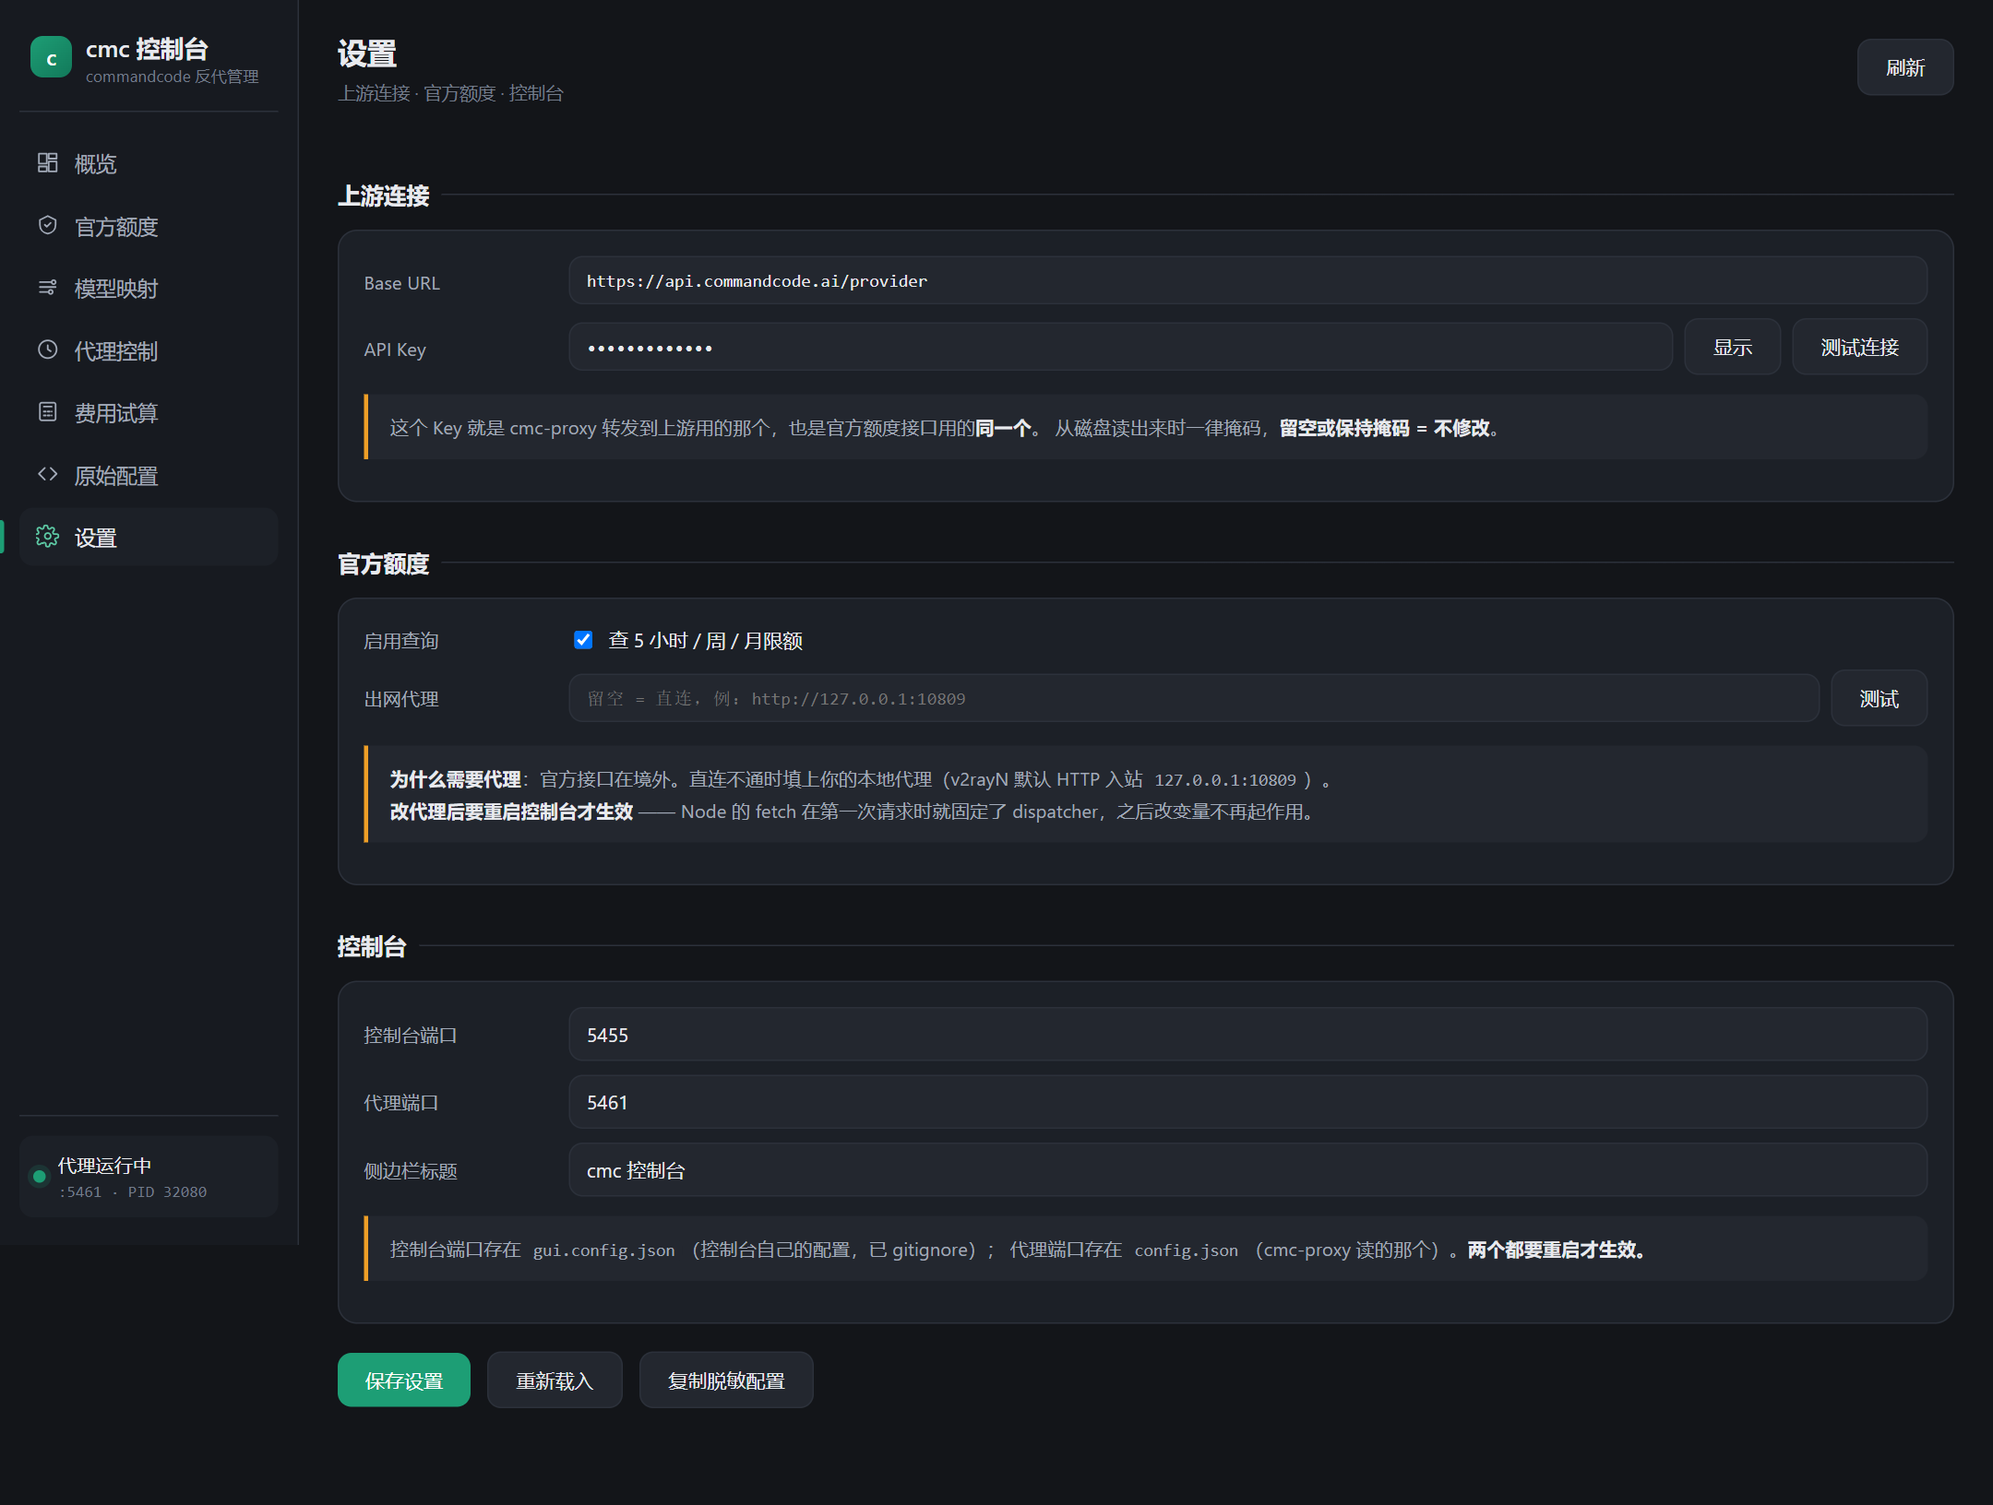
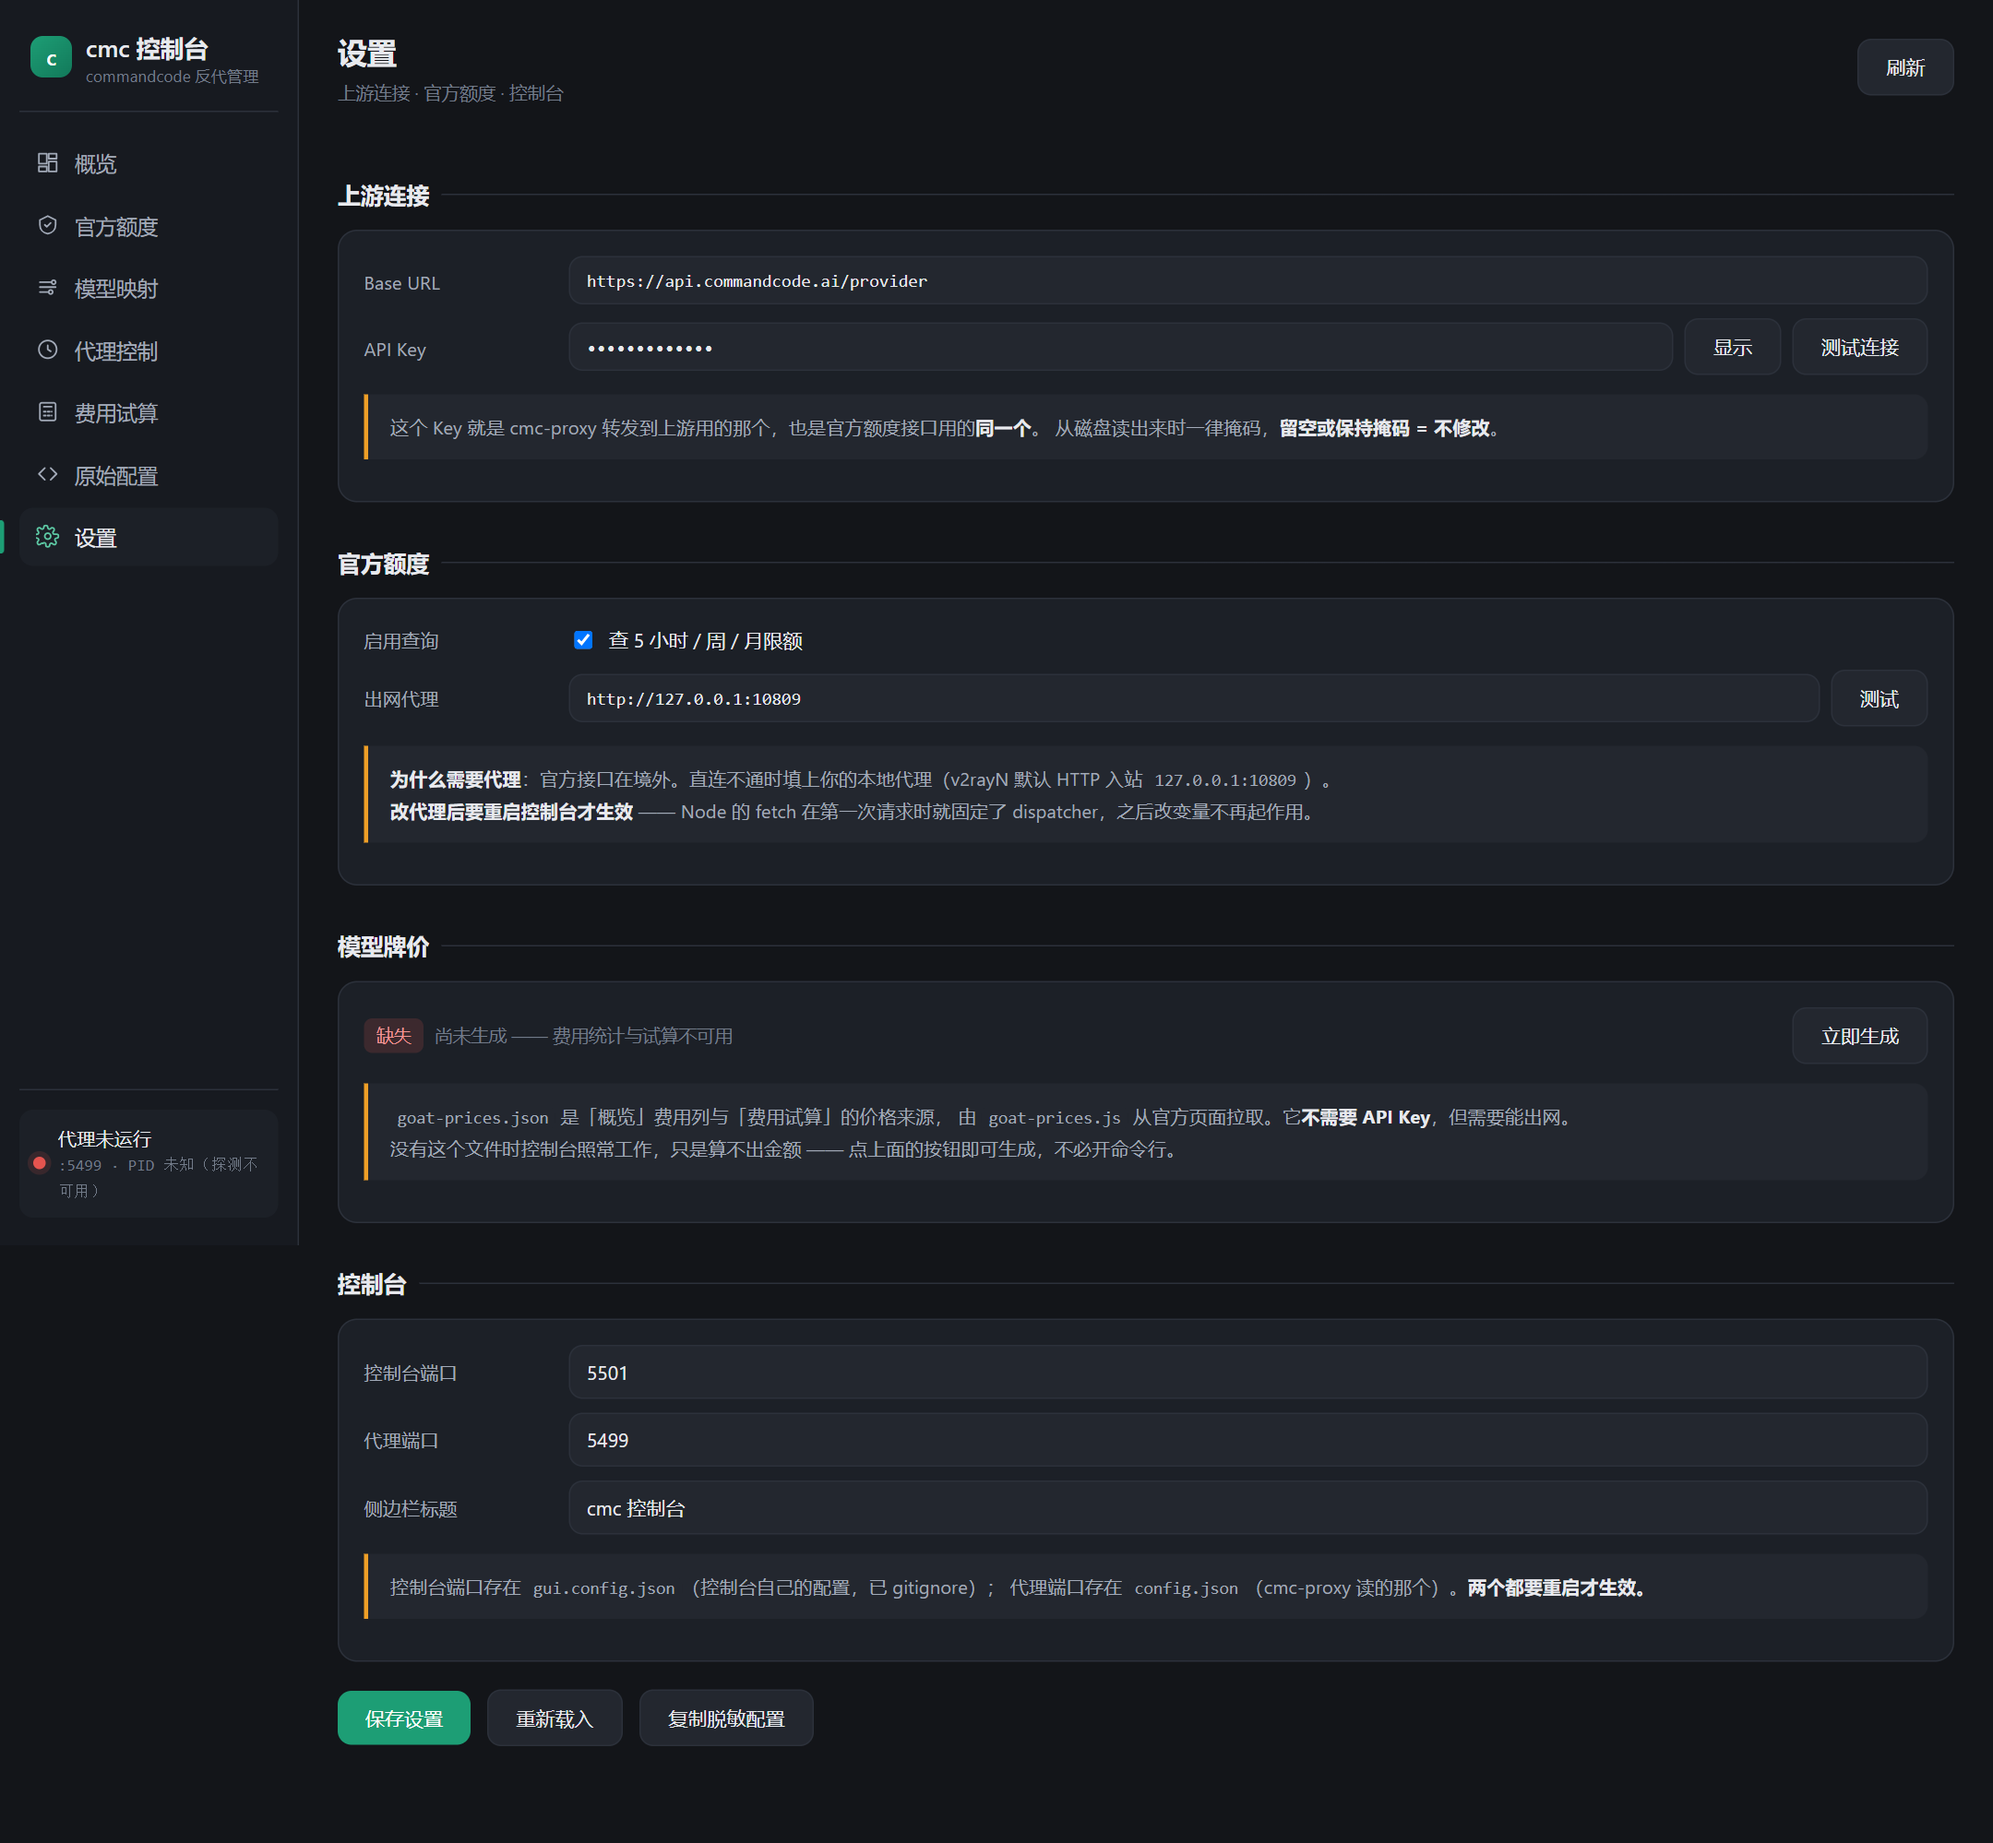
feat: 控制台内一键生成模型牌价 + 快速开始改为一站式步骤
新增：
- POST /api/prices/refresh —— 由控制台代跑 goat-prices.js，不必开命令行
- 「设置」页新增「模型牌价」分组，显示就绪状态 + 「立即生成」按钮
- 「费用试算」页在缺牌价时的提示里也放了同一个按钮，生成后本页自动刷新

代理处理（一个容易搞反的点）：
牌价来源 commandcode.ai 通常可直连，而上游 API 才必须走代理。
所以先剥掉代理变量直连跑一次，失败且配了代理时再用代理重试 ——
反过来（一上来就塞代理）会在代理没开时，把一个本来能成的操作弄失败。

另有：config.json 不存在时自动从 config.example.json 生成一份，
用户可以「先启动控制台、再在设置页填 Key」，不必手工复制文件。

README：快速开始改为「启动 → 在控制台里完成配置 → 接入客户端」三步，
把原先独立的「配置」章节并入教程，其后仅保留文件层面的说明。

diff --git a/gui.html b/gui.html
@@ -469,6 +469,20 @@
           <div id="testOffMsg" style="margin-top:10px"></div>
         </div>
 
+        <h2>模型牌价 <span class="rule"></span></h2>
+        <div class="card">
+          <div class="row" style="justify-content:space-between;align-items:center">
+            <span id="priceState" class="muted">—</span>
+            <button class="g" onclick="genPrices()" id="btnPrices">立即生成</button>
+          </div>
+          <div class="note" style="margin-top:14px">
+            <code>goat-prices.json</code> 是「概览」费用列与「费用试算」的价格来源，
+            由 <code>goat-prices.js</code> 从官方页面拉取。它<b>不需要 API Key</b>，但需要能出网。
+            <br />没有这个文件时控制台照常工作，只是算不出金额 —— 点上面的按钮即可生成，不必开命令行。
+          </div>
+          <div id="priceMsg" style="margin-top:10px"></div>
+        </div>
+
         <h2>控制台 <span class="rule"></span></h2>
         <div class="card">
           <div class="kv">
@@ -583,6 +597,14 @@ async function loadStatus() {
   $("btnStart").disabled = on || STATUS.managedByGui;
   $("btnStop").disabled = !STATUS.managedByGui;
   $("btnForce").disabled = !on;
+
+  // 设置页里的牌价状态（元素可能还没渲染，判空）
+  const ps = $("priceState");
+  if (ps) {
+    ps.innerHTML = STATUS.pricesLoaded
+      ? `<span class="pill ok">已就绪</span><span class="muted" style="margin-left:8px">goat-prices.json</span>`
+      : `<span class="pill err">缺失</span><span class="muted" style="margin-left:8px">尚未生成 —— 费用统计与试算不可用</span>`;
+  }
 
   // 独立仓库场景：目录里没有 proxy.js 时，明确告诉用户缺什么
   if (STATUS.proxyJsPresent === false) {
@@ -962,9 +984,14 @@ function renderCalcModels() {
 
   $("calcWarn").innerHTML = `<div class="note err" style="margin-bottom:16px">
     <b>找不到 goat-prices.json，费用试算拿不到价格。</b>
-    在控制台所在目录执行一次 <code>node goat-prices.js</code> 生成它（若需代理，见 README），
-    然后<b>刷新本页</b>即可 —— 不必重启控制台。
-    <br />下面的模型列表暂时取自上游目录，可以选，但估不出金额。</div>`;
+    它由 <code>goat-prices.js</code> 从官方页面拉取（不需要 API Key，但需要能出网）。
+    <br />下面的模型列表暂时取自上游目录，可以选，但估不出金额。
+    <div class="row" style="margin-top:12px">
+      <button class="g" onclick="genPrices('calcMsg')">立即生成牌价</button>
+      <span class="muted" style="font-size:12.5px">或在「设置」页操作；生成后本页会自动刷新</span>
+    </div>
+    <div id="calcMsg" style="margin-top:10px"></div>
+  </div>`;
 }
 
 /** 重新拉一次模型目录再渲染 —— 用户可能是刚生成 goat-prices.json 才切过来 */
@@ -1108,6 +1135,21 @@ async function exportSanitized() {
     $("rawHint").textContent = "";
     window.prompt("复制下面这份（apiKey 已清空）：", txt);
   }
+}
+
+/** 让控制台代跑 goat-prices.js 生成牌价（省得用户开命令行） */
+async function genPrices(msgId) {
+  msgId = msgId || "priceMsg";
+  const btn = $("btnPrices");
+  if (btn) btn.disabled = true;
+  $(msgId).innerHTML = `<span class="muted">正在拉取官方牌价…（约 10–30 秒，请勿关闭窗口）</span>`;
+  const r = await api("/api/prices/refresh", { method: "POST" });
+  if (btn) btn.disabled = false;
+  if (r.error) { testMsg(msgId, r); return; }
+  if (!r.ok) { testMsg(msgId, r); return; }
+  $(msgId).innerHTML = `<span class="pill ok">成功</span><span class="muted" style="margin-left:8px">${esc(r.message)}</span>`;
+  await refreshCalcModels();   // 让「费用试算」的下拉立刻带上价格
+  await loadStatus();          // 刷新设置页里的牌价状态
 }
 
 /* ---------- 原始配置 ---------- */

diff --git a/README.md b/README.md
@@ -66,43 +66,46 @@ Command Code 的 Provider API 按模型族划分三套端点：
 ### 环境要求
 
 - Node.js ≥ 18（依赖内置 `fetch` 与 `ReadableStream`）
-- Windows 可直接使用启动脚本；macOS / Linux 可使用命令行方式启动
+- Windows 可直接使用启动脚本；macOS / Linux 可使用命令行方式启动，界面本身跨平台
 
-### 步骤
-
-**1. 创建配置文件**
-
-复制 `config.example.json` 为 `config.json`，填写 `apiKey`：
-
-```json
-{
-  "upstream": "https://api.commandcode.ai/provider",
-  "apiKey": "user_你的密钥"
-}
-```
-
-密钥可在 Command Code 账户页面获取，形如 `user_` 开头。
-
-**2. 生成模型牌价**
-
-```bash
-node goat-prices.js
-```
-
-该步骤生成 `goat-prices.json`，费用统计与费用试算依赖此文件。未执行时控制台仍可正常运行，但费用相关字段为空。
-
-> 若本机需经由代理访问外网，执行前设置 `HTTP_PROXY` 与 `HTTPS_PROXY`，并加上 `NODE_USE_ENV_PROXY=1`（Node 的 `fetch` 默认不读取前两个变量）。控制台自身会处理这一点，此处是因为脚本在控制台之外单独执行。
-
-**3. 启动**
+### 第一步：启动
 
 ```
 Windows         双击 start-gui.bat
 macOS / Linux   node gui.js --auto-start --open
 ```
 
-启动后自动打开浏览器并访问 `http://127.0.0.1:5419`。控制台与代理运行在同一进程组内，关闭该窗口即同时停止两者。
+浏览器会自动打开 `http://127.0.0.1:5419`。控制台与代理运行在同一进程组内，关闭该窗口即同时停止两者。
+
+首次启动时若目录里没有 `config.json`，控制台会从 `config.example.json` 自动生成一份（`apiKey` 为空），
+**不需要手工复制文件**。
 
 > 仅需反代、不需要控制台时：Windows 使用 `start.bat`，macOS / Linux 使用 `./start.sh`。
+
+### 第二步：在控制台里完成配置
+
+打开左侧「**设置**」页，三项配置都在同一页面完成，无需编辑任何文件：
+
+| 顺序 | 位置 | 操作 | 如何确认成功 |
+|---|---|---|---|
+| ① | 上游连接 → **API Key** | 填入 Command Code 的密钥（`user_` 开头） | 点「测试连接」→ 显示 *Key 有效 · 上游返回 N 个模型* |
+| ② | 官方额度 → **出网代理** | 直连不通时填本地代理，v2rayN 默认为 `http://127.0.0.1:10809` | 点「测试」→ 显示 *官方接口通 · 账号 xxx* |
+| ③ | 模型牌价 → **立即生成** | 点一下按钮，无需命令行 | 状态由「缺失」变为「已就绪」 |
+
+![设置页](docs/console-settings.png)
+
+- **① 为必需项**；② 与 ③ 可选 —— ② 只影响「官方额度」页，③ 只影响费用统计与「费用试算」
+- ③ 拉取的是公开价格页面，**不需要 API Key**，也不需要 `goat-prices.json` 事先存在
+- 修改端口或出网代理后需重启控制台。原因是 Node 在进程启动时即确定是否启用环境变量代理，
+  启动后再设置无效（控制台会自动携带新代理重启一次自身）
+
+> 更习惯命令行的话，也可以直接编辑 `config.json` 填入 `apiKey`、并在目录下执行 `node goat-prices.js`，
+> 效果与上表完全一致。文件层面的说明见下方「配置文件」。
+
+### 第三步：接入客户端
+
+Claude Desktop 的配置见「[接入 Claude Desktop](#接入-claude-desktop)」一节；
+Claude Code 与 Codex 使用同一个网关地址 `http://127.0.0.1:5411`，配置方式参见上游项目文档。
 
 ---
 
@@ -127,40 +130,39 @@ cmc-proxy-gui/
 
 ---
 
-## 配置
+## 配置文件
 
-日常配置无需编辑文件，均可在控制台的「设置」页完成：
+日常使用不需要接触文件 —— 全部配置都在控制台的「设置」页完成（见上文「快速开始」）。
+以下是文件层面的说明，便于手工部署或二次开发。
 
-![设置页](docs/console-settings.png)
-
-| 分组 | 配置项 |
-|---|---|
-| 上游连接 | Base URL、API Key（提供连通性测试） |
-| 官方额度 | 启用开关、出网代理（提供连通性测试） |
-| 控制台 | 控制台端口、代理端口、侧边栏标题 |
-
-两个测试按钮分别请求 `{upstream}/v1/models` 与 `/alpha/whoami`，便于区分上游与网络问题。
-
-控制台自身的配置项存储于 `gui.config.json`，首次运行自动生成：
+**控制台自身的配置**：`gui.config.json`，首次运行自动生成，共 4 项。
 
 ```json
 {
-  "port": 5419,
-  "proxy": "",
-  "officialApi": true,
-  "title": "cmc 控制台"
+  "port": 5419,           // 控制台监听端口
+  "proxy": "",            // 出网代理，例：http://127.0.0.1:10809；留空 = 直连
+  "officialApi": true,    // 是否启用「官方额度」查询
+  "title": "cmc 控制台"    // 侧边栏标题
 }
 ```
 
-其中 `proxy` 为访问官方接口所需的出网代理，留空表示直连。
+`proxy` 之所以必须由进程启动时确定：Node 在进程引导阶段就决定是否启用环境变量代理
+（`NODE_USE_ENV_PROXY` / `HTTPS_PROXY`），启动之后再设置无效。因此控制台若发现配置中的代理
+尚未进入环境变量，会**携带该代理重新执行自身一次**，从而保证从任何入口启动都能正确出网。
 
-Node 在进程启动时即决定是否启用环境变量代理（`NODE_USE_ENV_PROXY` / `HTTPS_PROXY`），
-启动之后再设置无效。因此控制台在启动阶段会比对 `gui.config.json` 中的代理与当前环境，
-若不一致则**携带该代理重新执行自身一次**，从而保证无论从哪个入口启动都能正确出网。
+**上游配置**：`config.json`，由反代核心 `proxy.js` 读取，含 `port`、`host`、`upstream`、
+`apiKey`、`modelMap`、`defaultModels` 等。控制台的「原始配置」页就是它的编辑器；
+`apiKey` 在该页面始终以掩码 `user_****末4位` 显示，明文不会下发到浏览器。
 
-上游的 `port`、`upstream`、`apiKey`、`modelMap` 等配置仍位于 `config.json`，控制台仅代为修改。
+**模型牌价**：`goat-prices.json`，由 `goat-prices.js` 生成，是费用统计与「费用试算」的价格来源。
+可在控制台里一键生成，或手动执行：
 
-> 修改端口或出网代理后需重启控制台方可生效。若未重启就点击测试，界面会明确提示这一点，而不会反复失败。
+```bash
+node goat-prices.js
+```
+
+> 该脚本在控制台之外运行，不会自动继承控制台的代理设置。若本机需经代理访问外网，
+> 执行前设置 `HTTP_PROXY` 与 `HTTPS_PROXY`，并加上 `NODE_USE_ENV_PROXY=1`。
 
 ---
 
